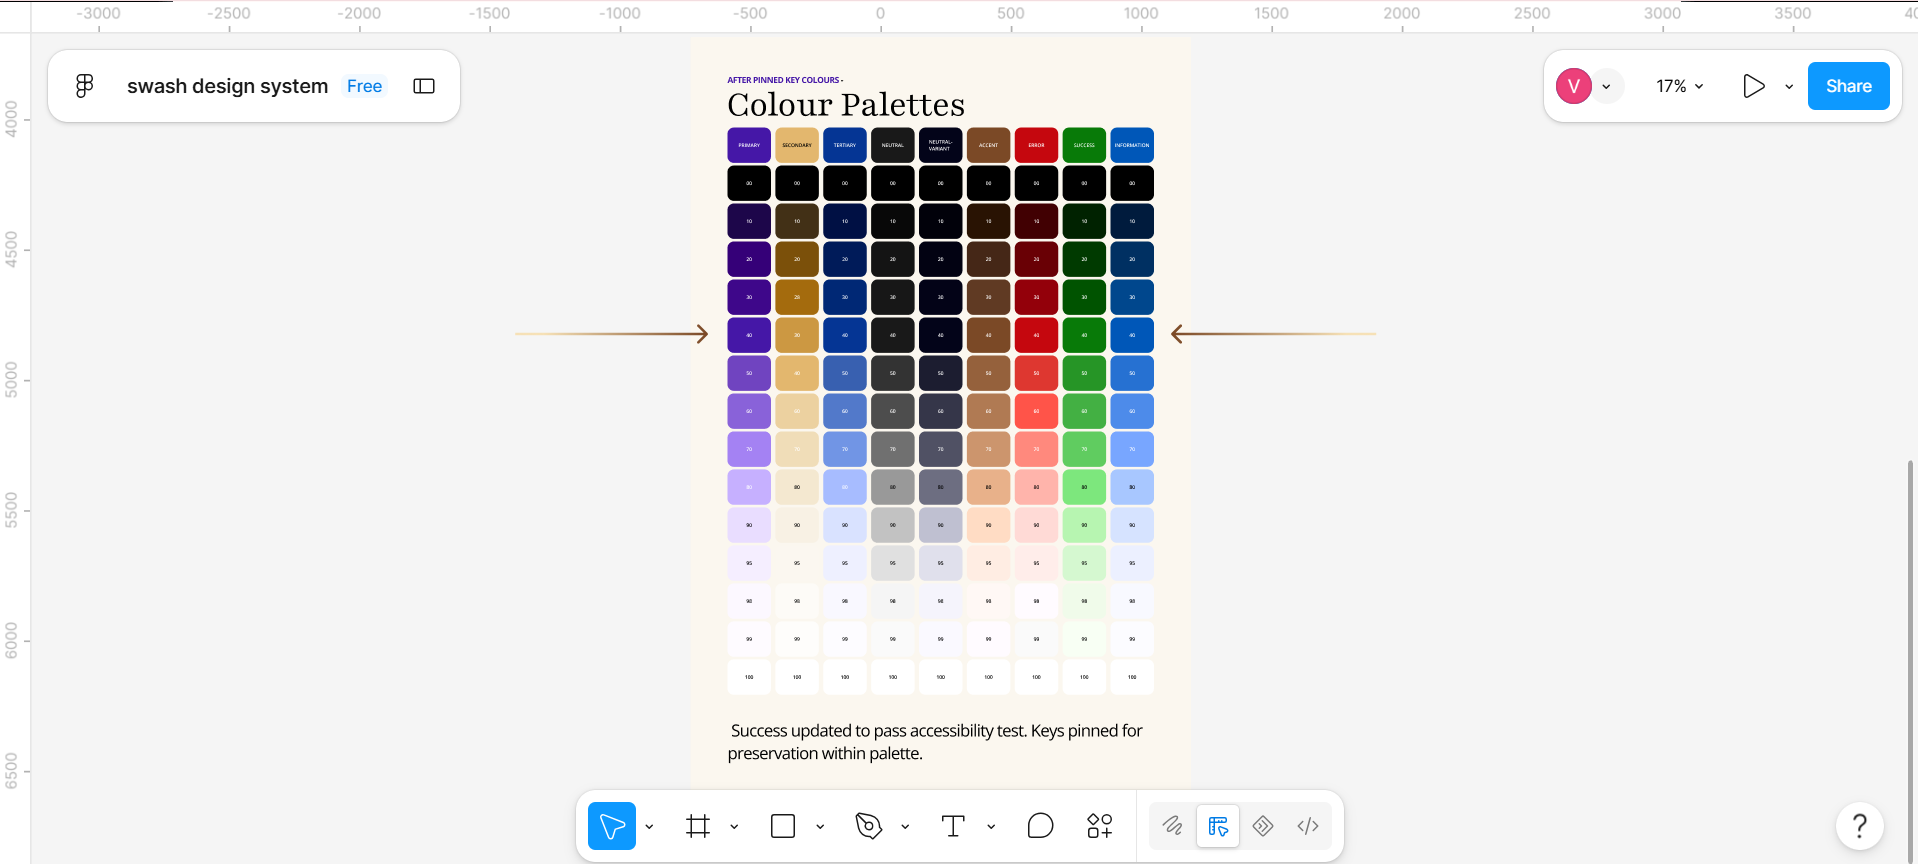
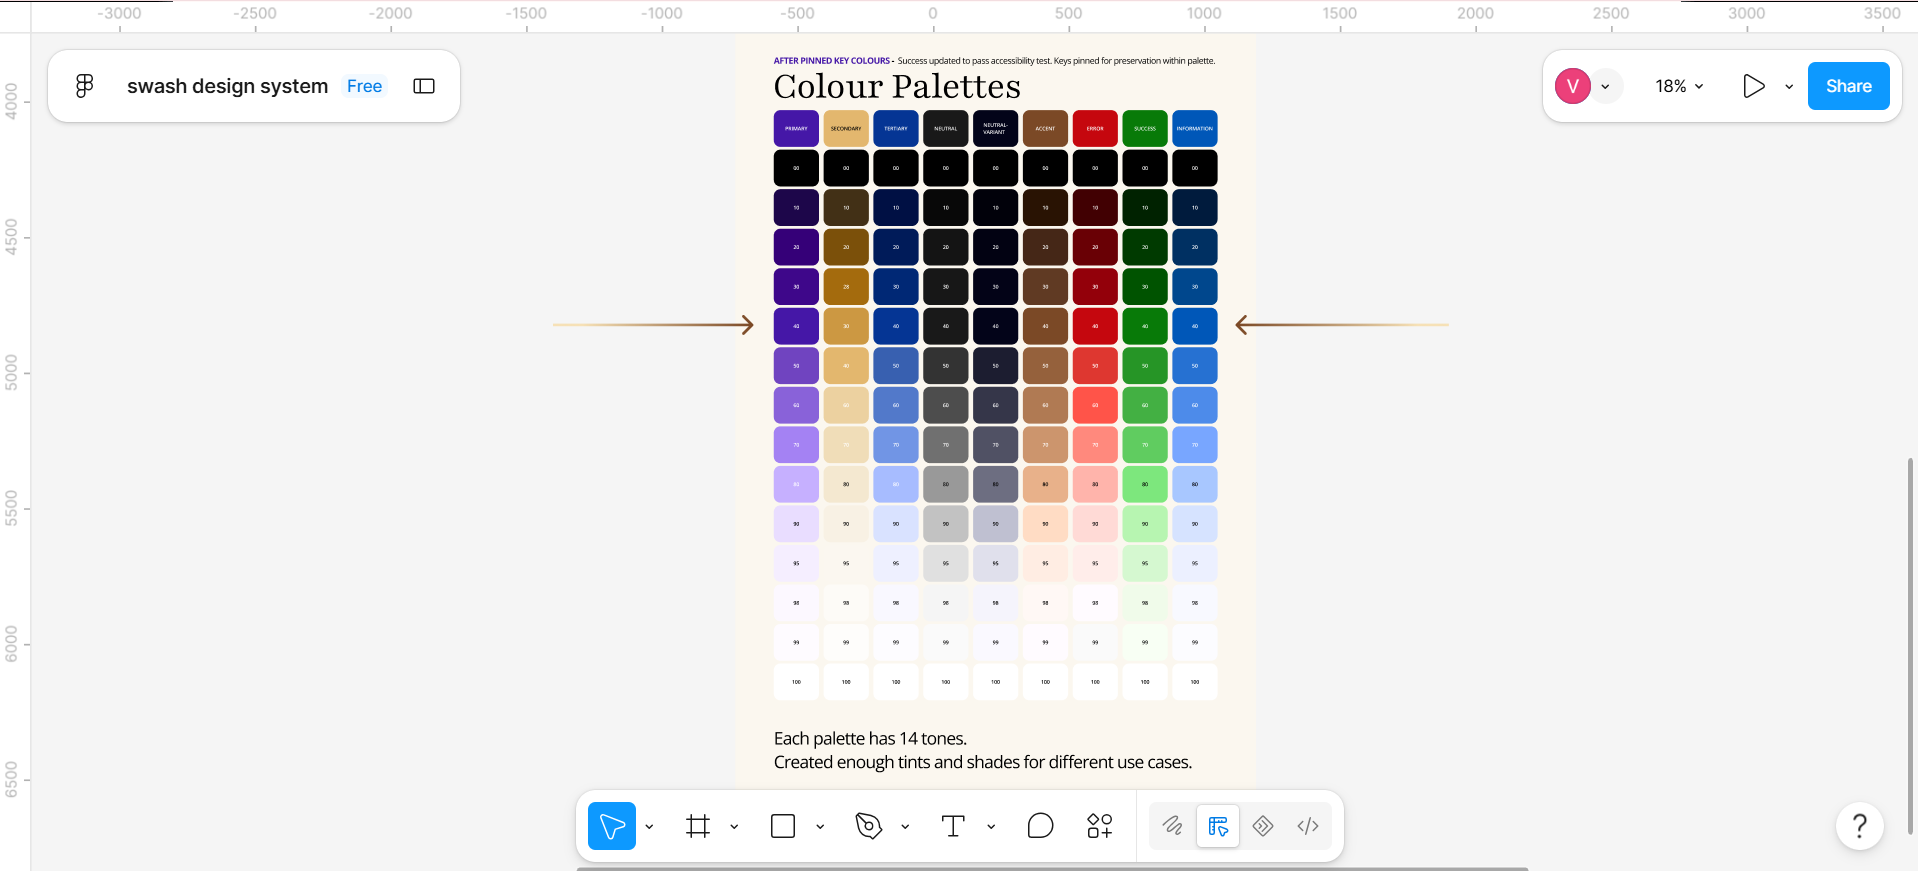
added colour-roles.md

diff --git a/docs/colour-roles.md b/docs/colour-roles.md
@@ -1,0 +1,10 @@
+**Colour Roles**
+
+- **Primary:** Main brand colour for primary actions.
+- **Secondary:** Supporting colour for primary activities.
+- **Tertiary:** Additional supporting colour for visual variety.
+- **On Roles:** Colours used for text and icons on other coloured surfaces.
+- **Surface:** Colours used for containers, cards, and panels.
+- **Background:** Colour used for the main app background.
+- **Outline:** Usually neutral colours used to distinguish surfaces and backgrounds.
+- **Elevation:** Colours used to indicate depth and hierarchy between surfaces.
